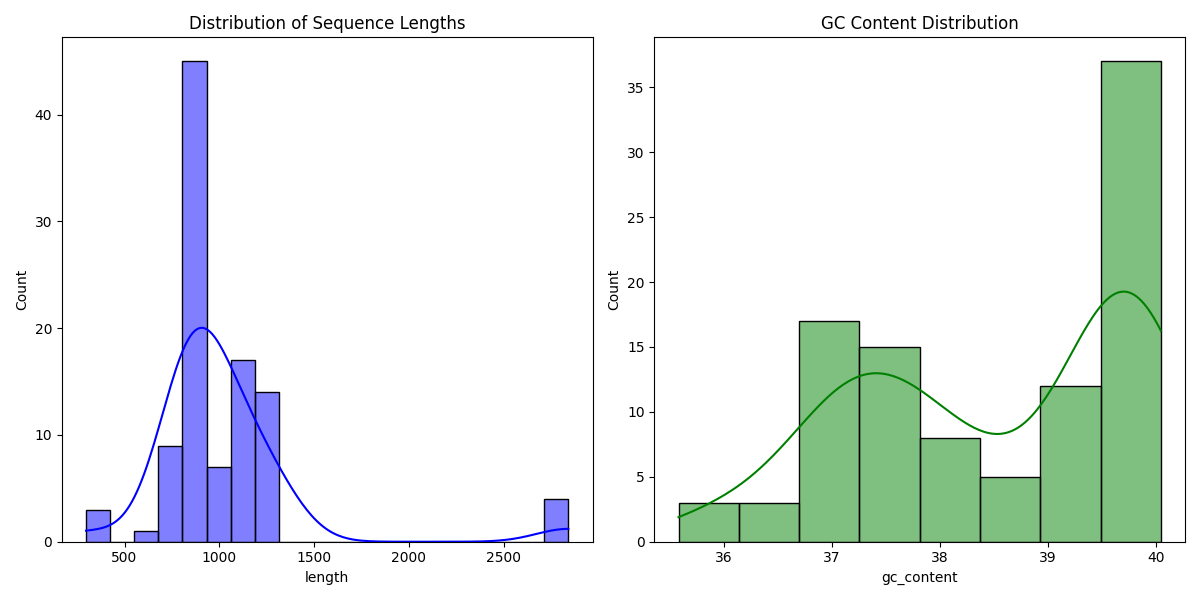
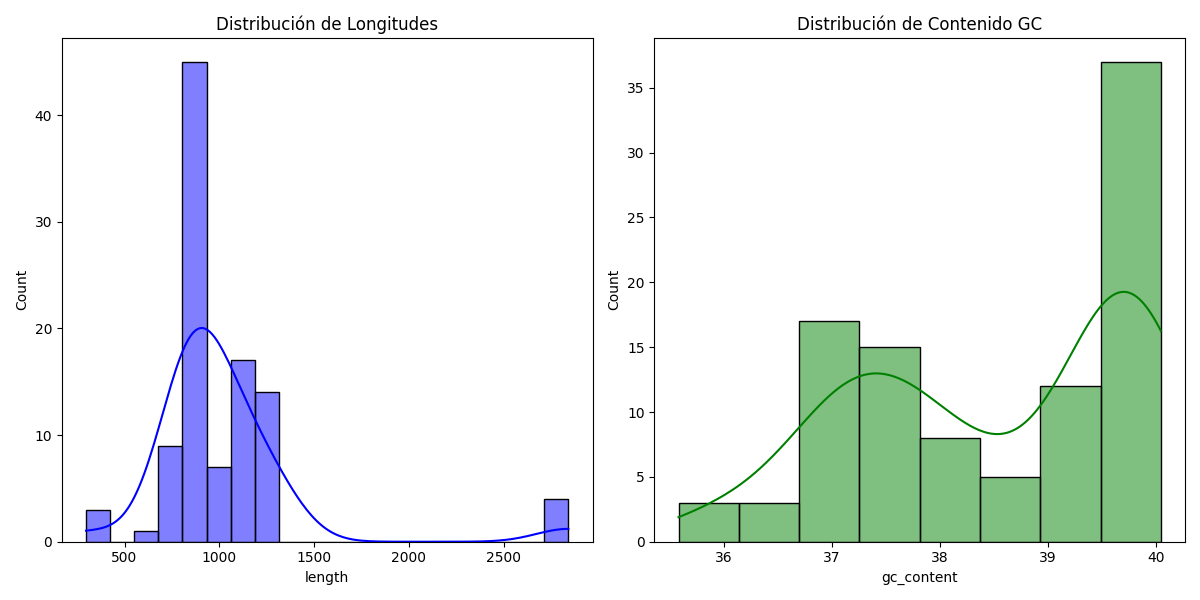
refactor: professionalize 02_qc.py using pathlib, logging, and argparse
- Replaced os.path with pathlib for OS-agnostic path management.
- Implemented dual-output logging (terminal and file) with progress tracking.
- Added argparse for CLI flexibility with defaults from config.yaml.
- Included educational comments in Spanish for pedagogical purposes.
- Verified standalone execution and pipeline integration.

diff --git a/scripts/02_qc.py b/scripts/02_qc.py
@@ -1,81 +1,134 @@
 """
-Quality Control and Filtering for HIV-1 Sequences.
+Control de Calidad (QC) y Filtrado de Secuencias de VIH-1.
 
-This module performs biological quality control on raw FASTA sequences,
-filtering out entries that do not meet length requirements or contain
-excessive ambiguous bases (Ns).
+Este script es una versión refactorizada del pipeline original, diseñada con un
+enfoque educativo para científicos que están aprendiendo ingeniería de software.
 
-Biological Context:
-    In HIV-1 evolutionary studies, sequences with high ambiguity or short
-    lengths can introduce noise in phylogenetic reconstruction. Standard
-    practice involves filtering sequences that cover less than 80% of the
-    target region or have >5% ambiguous sites.
-
-Pipeline Stage:
-    Phase 2 of 7: Quality Control.
-
-Example:
-    >>> # Run from terminal:
-    >>> # python scripts/02_qc.py
+HERRAMIENTAS UTILIZADAS:
+1. pathlib: Sustituye el manejo de rutas basado en strings por objetos Path.
+   Esto hace que el código funcione igual en Windows, Linux y Mac sin cambios.
+2. logging: Reemplaza los 'print()' por un sistema profesional de registro.
+   Permite guardar logs en archivos y ver diferentes niveles de importancia (INFO, ERROR).
+3. argparse: Elimina variables fijas (hardcoded). El científico puede ejecutar
+   el script con diferentes parámetros desde la terminal.
 """
 
 from __future__ import annotations
-import os
+import argparse
 import yaml
 import logging
 import pandas as pd
 import matplotlib.pyplot as plt
 import seaborn as sns
+from pathlib import Path
 from Bio import SeqIO
 from Bio.SeqUtils import gc_fraction
 from typing import Any, Dict
 
-logging.basicConfig(
-    level=logging.INFO,
-    format='%(asctime)s - %(levelname)s - %(message)s',
-    handlers=[
-        logging.FileHandler("logs/qc.log"),
-        logging.StreamHandler()
-    ]
-)
+def setup_logging(log_dir: Path) -> None:
+    """
+    Configura el sistema de logs para que informe por terminal y guarde en archivo.
+
+    ¿POR QUÉ LOGGING?: A diferencia de print(), logging permite clasificar mensajes
+    por importancia (INFO para flujo normal, ERROR para fallos) y dirigirlos a
+    múltiples destinos (pantalla y archivo) simultáneamente.
+    """
+    # Creamos el directorio de logs si no existe usando pathlib
+    # El método mkdir con parents=True crea toda la jerarquía necesaria.
+    log_dir.mkdir(parents=True, exist_ok=True)
+    log_file = log_dir / "qc.log"
+
+    logging.basicConfig(
+        level=logging.INFO,
+        format='%(asctime)s - %(levelname)s - %(message)s',
+        handlers=[
+            logging.FileHandler(log_file),
+            logging.StreamHandler()
+        ]
+    )
 
 def load_config() -> Dict[str, Any]:
     """
-    Load pipeline configuration from a YAML file.
-
-    Returns:
-        Dict[str, Any]: Configuration dictionary.
+    Carga la configuración centralizada del proyecto desde un archivo YAML.
     """
-    with open("config.yaml", "r") as f:
+    config_path = Path("config.yaml")
+    if not config_path.exists():
+        raise FileNotFoundError("No se encontró el archivo config.yaml")
+
+    with open(config_path, "r") as f:
         return yaml.safe_load(f)
 
+def parse_args(config: Dict[str, Any]) -> argparse.Namespace:
+    """
+    Define y procesa los argumentos de entrada desde la terminal.
+
+    ¿POR QUÉ ARGPARSE?: Permite que otros científicos usen tu código con sus propios
+    datos sin tener que editar el script de Python. Proporciona ayuda automática
+    cuando se ejecuta con --help.
+    """
+    parser = argparse.ArgumentParser(description="Control de Calidad de secuencias VIH-1")
+
+    # Extraemos rutas por defecto de la configuración
+    paths = config.get("paths", {})
+
+    # ¿POR QUÉ PATHLIB?: Al usar Path como tipo, argparse convierte automáticamente
+    # la cadena de texto de la terminal en un objeto Path listo para usar.
+    parser.add_argument(
+        "--input",
+        type=Path,
+        default=Path(paths.get("raw_data", "data/raw")) / "hiv_raw.fasta",
+        help="Archivo FASTA de entrada"
+    )
+    parser.add_argument(
+        "--output-dir",
+        type=Path,
+        default=Path(paths.get("processed_data", "data/processed")),
+        help="Directorio para resultados procesados"
+    )
+    parser.add_argument(
+        "--figures-dir",
+        type=Path,
+        default=Path(paths.get("figures", "figures")),
+        help="Directorio para gráficos"
+    )
+    parser.add_argument(
+        "--min-len",
+        type=int,
+        default=config.get("min_length", 1000),
+        help="Longitud mínima permitida en pares de bases (bp)"
+    )
+    parser.add_argument(
+        "--max-ns",
+        type=float,
+        default=config.get("max_ns_percent", 5.0),
+        help="Máximo porcentaje de Ns permitido"
+    )
+
+    return parser.parse_args()
+
 def run_qc(
-    input_file: str,
+    input_file: Path,
     min_len: int,
     max_ns: float,
-    processed_path: str
+    output_dir: Path
 ) -> pd.DataFrame:
     """
-    Execute biological quality control filtering on a FASTA file.
-
-    Args:
-        input_file (str): Path to the input raw FASTA file.
-        min_len (int): Minimum sequence length required (in bp).
-        max_ns (float): Maximum allowed percentage of ambiguous bases (Ns).
-        processed_path (str): Directory where filtered output and stats will be saved.
-
-    Returns:
-        pd.DataFrame: Summary statistics of all analyzed sequences.
-
-    Notes:
-        The function saves `hiv_filtered.fasta` and `qc_stats.csv` to the
-        `processed_path` directory.
+    Ejecuta el filtrado biológico basado en longitud y ambigüedad.
     """
-    logging.info(f"Starting Quality Control on {input_file}...")
+    logging.info(f"Iniciando Control de Calidad en: {input_file}")
+
+    # ¿POR QUÉ PATHLIB?: Reemplaza os.makedirs con un método más legible.
+    output_dir.mkdir(parents=True, exist_ok=True)
     
     stats = []
     filtered_sequences = []
+    processed_count = 0
     
+    # Verificamos si el archivo de entrada existe usando pathlib
+    if not input_file.exists():
+        logging.error(f"El archivo de entrada no existe: {input_file}")
+        raise FileNotFoundError(f"No se encontró {input_file}")
+
     for record in SeqIO.parse(input_file, "fasta"):
         seq_len = len(record.seq)
         n_count = record.seq.upper().count('N')
@@ -89,65 +142,78 @@ def run_qc(
             'gc_content': gc
         })
         
-        # Rigorous biological filtering
         if seq_len >= min_len and ns_percent <= max_ns:
             filtered_sequences.append(record)
+
+        processed_count += 1
+        # Registro de progreso cada 100 secuencias para dar feedback al usuario.
+        if processed_count % 100 == 0:
+            logging.info(f"Progreso: {processed_count} secuencias analizadas...")
             
     df = pd.DataFrame(stats)
     
-    # Save statistics
-    stats_file = os.path.join(processed_path, "qc_stats.csv")
+    # ¿POR QUÉ PATHLIB?: El operador '/' permite unir rutas de forma intuitiva
+    # independientemente de si estás en Windows (\) o Linux/Mac (/).
+    stats_file = output_dir / "qc_stats.csv"
     df.to_csv(stats_file, index=False)
     
-    # Save filtered sequences
-    output_fasta = os.path.join(processed_path, "hiv_filtered.fasta")
+    output_fasta = output_dir / "hiv_filtered.fasta"
     with open(output_fasta, "w") as f:
         SeqIO.write(filtered_sequences, f, "fasta")
         
-    logging.info(f"QC Complete. {len(filtered_sequences)} sequences passed filters.")
-    
+    logging.info(f"QC Finalizado. {len(filtered_sequences)} secuencias pasaron los filtros.")
     return df
 
-def generate_plots(df: pd.DataFrame, output_path: str) -> None:
+def generate_plots(df: pd.DataFrame, output_dir: Path) -> None:
     """
-    Generate distribution plots for sequence metrics.
+    Genera visualizaciones de las métricas de calidad (Longitud y GC).
+    """
+    output_dir.mkdir(parents=True, exist_ok=True)
 
-    Args:
-        df (pd.DataFrame): DataFrame containing 'length' and 'gc_content' columns.
-        output_path (str): Directory where the PNG plot will be saved.
-    """
     plt.figure(figsize=(12, 6))
     
     plt.subplot(1, 2, 1)
     sns.histplot(df['length'], kde=True, color='blue')
-    plt.title('Distribution of Sequence Lengths')
+    plt.title('Distribución de Longitudes')
     
     plt.subplot(1, 2, 2)
     sns.histplot(df['gc_content'], kde=True, color='green')
-    plt.title('GC Content Distribution')
+    plt.title('Distribución de Contenido GC')
     
     plt.tight_layout()
-    plt.savefig(os.path.join(output_path, "qc_metrics.png"))
-    logging.info(f"QC plots saved to {output_path}")
+
+    plot_file = output_dir / "qc_metrics.png"
+    plt.savefig(plot_file)
+    logging.info(f"Gráficos guardados en: {plot_file}")
 
 def main() -> None:
     """
-    Entry point for the QC script.
+    Orquestación principal del script.
     """
-    config = load_config()
-    raw_file = os.path.join(config["paths"]["raw_data"], "hiv_raw.fasta")
-    processed_path = config["paths"]["processed_data"]
-    figures_path = config["paths"]["figures"]
-    
-    os.makedirs(processed_path, exist_ok=True)
-    os.makedirs(figures_path, exist_ok=True)
-    
-    if not os.path.exists(raw_file):
-        logging.error(f"Input file {raw_file} not found. Run download script first.")
-        return
+    try:
+        # 1. Cargamos configuración
+        config = load_config()
 
-    df = run_qc(raw_file, config["min_length"], config["max_ns_percent"], processed_path)
-    generate_plots(df, figures_path)
+        # 2. Procesamos argumentos
+        args = parse_args(config)
+
+        # 3. Configuramos logs (usando la ruta de la config o 'logs' por defecto)
+        log_dir = Path(config.get("paths", {}).get("logs", "logs"))
+        setup_logging(log_dir)
+
+        logging.info("=== Iniciando Pipeline de Control de Calidad ===")
+
+        # 4. Ejecución del Control de Calidad
+        df = run_qc(args.input, args.min_len, args.max_ns, args.output_dir)
+
+        # 5. Generación de gráficos
+        generate_plots(df, args.figures_dir)
+
+        logging.info("=== Proceso completado exitosamente ===")
+
+    except Exception as e:
+        # En caso de error, el nivel ERROR asegura que destaque en los logs.
+        logging.error(f"Fallo crítico en el script: {e}", exc_info=True)
 
 if __name__ == "__main__":
     main()
